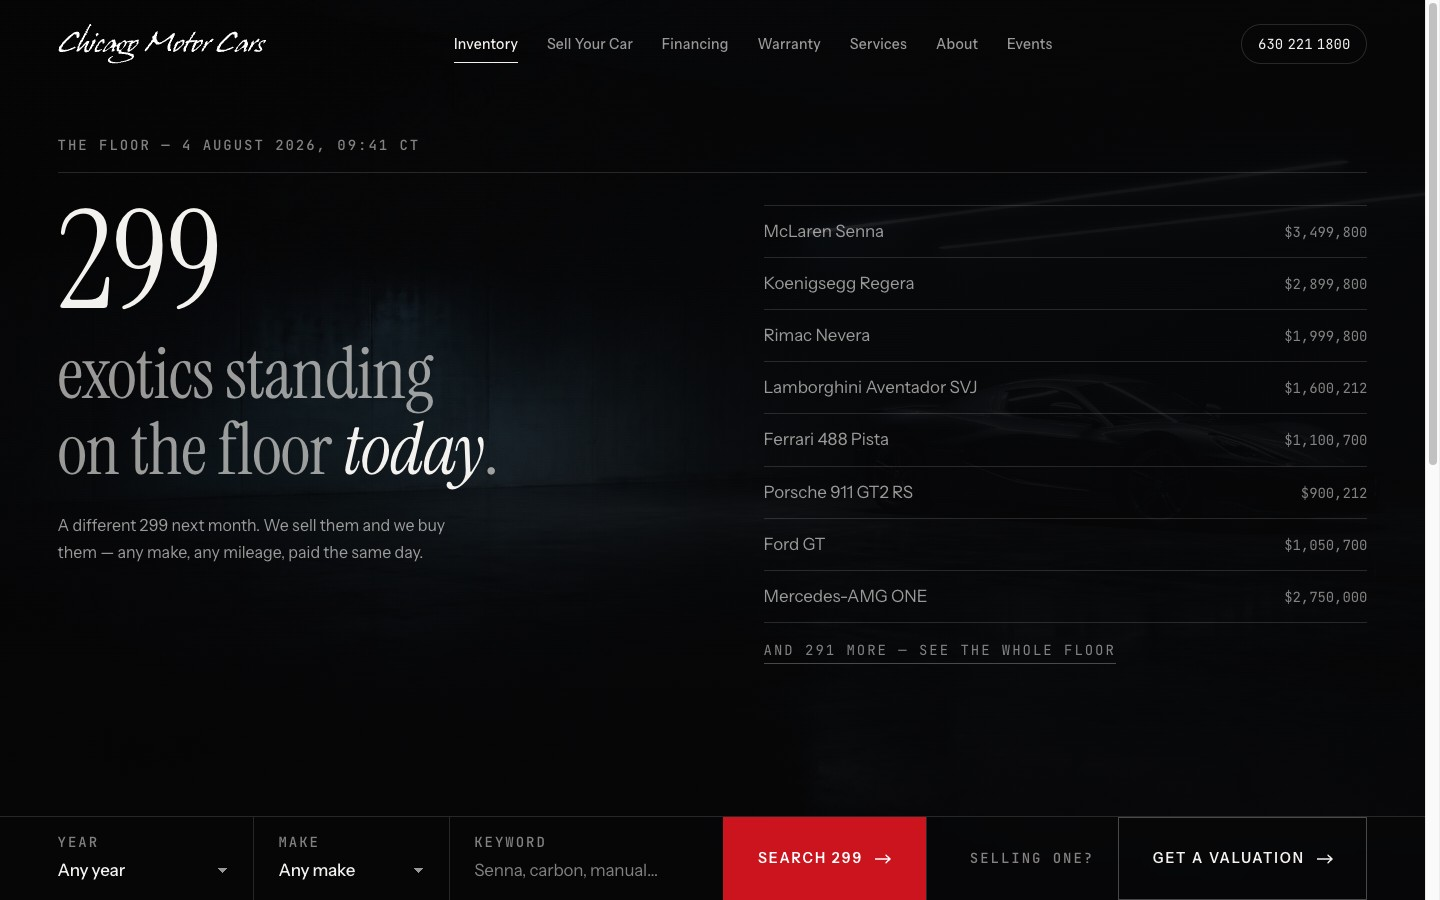
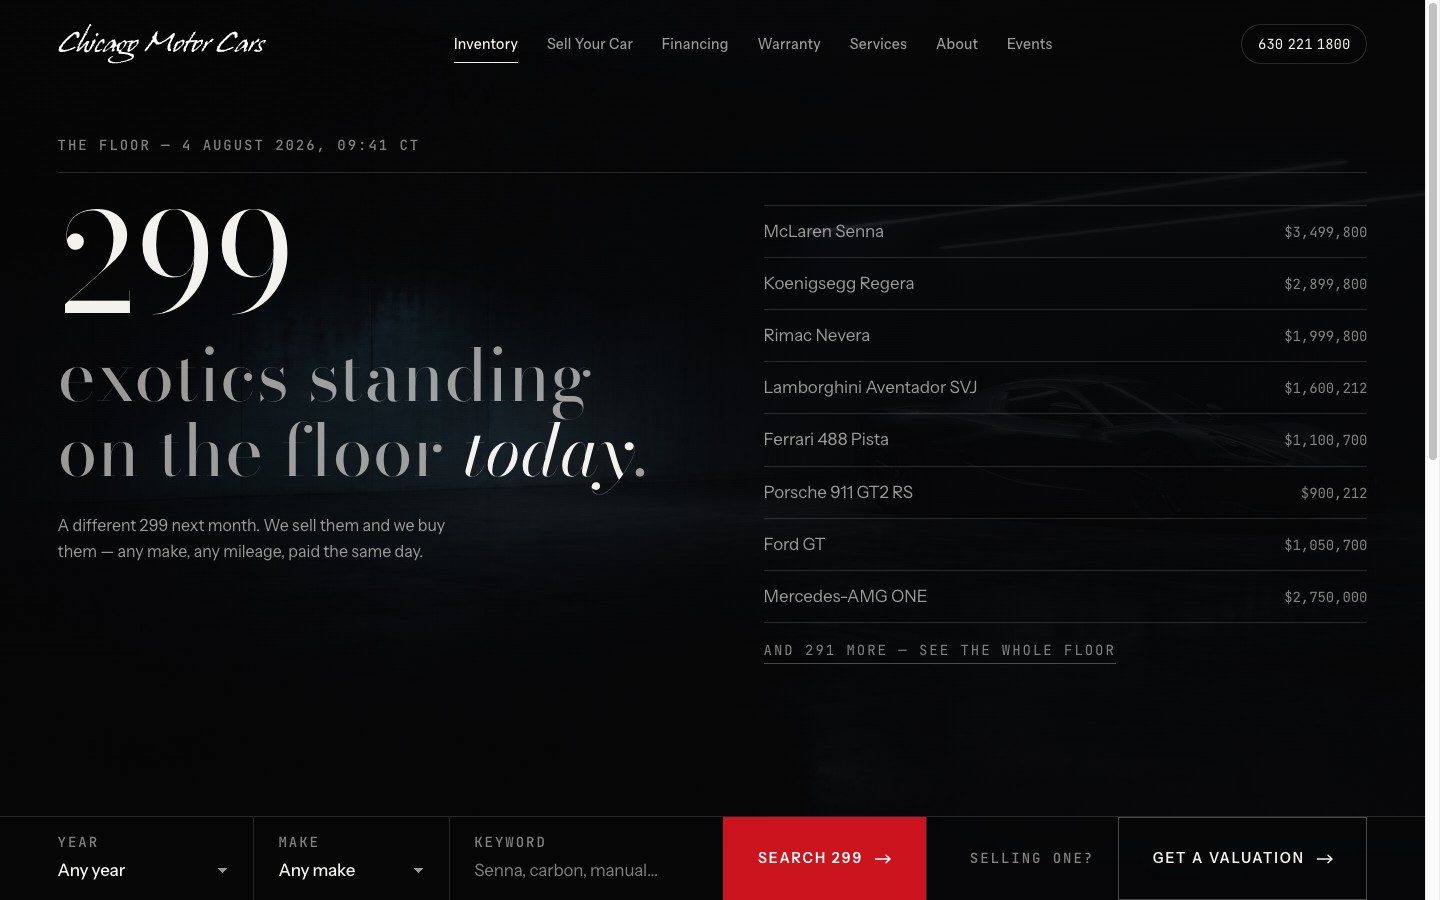
J — the didone, set as a didone wants
Display returns to Bodoni Moda, and the settings are the whole point:

  weight   400        never 500+, which thickens the hairlines
  opsz     96         the display cut, not the text cut
  tracking +0.005em   open, never the -0.03 a grotesque wants

The earlier rejection was my execution, not the family — it was running
at 600 and -0.035, which is how a didone is made to look heavy and
ordinary. Body stays Instrument Sans, data stays JetBrains Mono, which
is the dialect's three-voice system exactly: didone display, quiet
grotesque, machine register.

Verified: mobile clamps the claim to 40px and the count to 72px, both at
or above the ~40px floor where hairlines start falling under a device
pixel. Contrast on the composited render passes at both viewports —
count 17.87, claim 6.31, note 6.32, roster 6.47.

Changed region(s): [[0.0312, 0.3733, 0.4375, 0.5289], [0.0312, 0.2178, 0.2188, 0.3733], [0.0625, 0.5911, 0.2812, 0.6222]]

diff --git a/assets/css/tokens.css b/assets/css/tokens.css
@@ -55,27 +55,31 @@
        body    — leads, UI copy, plate values. Quiet, forgettable.
        mono    — anything factual: labels, stock, miles, VIN, counts.
 
-     Instrument Serif and Instrument Sans are cut by one hand from
-     related skeletons, so the pair has a reason to exist — which
-     Bodoni + Archivo did not: different centuries, different bones,
-     and a script wordmark already in the room.
+     The inventory is catalogue content — lots, provenance, one-of-N,
+     delivery mileage, prices to $3.5M — so the display voice is the
+     printed catalogue's: a didone.
 
-     CONSTRAINT: Instrument Serif ships ONE weight (400) plus a true
-     italic. Every display rank therefore sets 400 — asking for 500
-     or 600 would make the browser synthesise a fake bold. Emphasis
-     comes from size and from the italic, never from weight.        */
-  --font-display: 'Instrument Serif', 'Didot', Georgia, serif;
+     HOW IT IS SET, and this is the whole difference between elegant
+     and ordinary. A didone wants to be LIGHT, OPEN and LARGE:
+        weight  400          never 500+, which thickens the hairlines
+        opsz    96           the display cut, not the text cut
+        tracking +0.005em    open, never the −0.03 a grotesque wants
+     Set at 600 and −0.035 it reads heavy and generic — that was the
+     earlier fault, and the family took the blame for it.
+
+     Emphasis is the true italic. There is no heavier weight in play. */
+  --font-display: 'Bodoni Moda', 'Didot', 'GFS Didot', Georgia, serif;
+  --font-display-set: 'opsz' 96;
   --font-body:    'Instrument Sans', -apple-system, BlinkMacSystemFont, sans-serif;
   --font-mono:    'JetBrains Mono', ui-monospace, SFMono-Regular, Menlo, monospace;
 
   /* Scale — every size resolves here. No magic numbers.
      14px is the floor for anything a visitor must read.         */
-  /* Instrument Serif is high-contrast but not a true didone: its
-     hairlines survive lower than Bodoni's did, so the display floor
-     comes down from ~40px to ~32px. Verified on the specimen, not
-     assumed.                                                        */
+  /* The didone floor is ~40px: below it the hairlines fall under a
+     device pixel and figures start losing crossbars. Both display
+     ranks clamp above it at every width.                            */
   --t-count: clamp(4.5rem, 9.5vw, 9.5rem);   /* the live figure   */
-  --t-claim: clamp(2.375rem, 5vw, 4.75rem);  /* the hero claim    */
+  --t-claim: clamp(2.5rem, 5vw, 4.75rem);    /* the hero claim    */
   --t-h1:    clamp(1.625rem, 3.2vw, 3.25rem);
   --t-lede:  clamp(1rem, 1.1vw, 1.0625rem);
   --t-body:  1rem;                            /* 16px            */
@@ -88,7 +92,8 @@
   --lh-label:   1.4;
 
   --tr-micro: 0.14em;    /* uppercase mono needs the tracking    */
-  --tr-count: -0.02em;   /* Instrument Serif is already tight     */
+  --tr-display: 0.005em; /* a didone wants open, not tight        */
+  --tr-count:   0;       /* figures at display size sit at zero    */
 
   /* ---- Space -------------------------------------------------
      4px base. Every step carries a job, because a scale without

diff --git a/assets/css/main.css b/assets/css/main.css
@@ -331,15 +331,17 @@ button, input, select { font: inherit; color: inherit; }
    explains it drops two ranks and sits under its shoulder. */
 .hero__claim {
   font-family: var(--font-display);
-  font-weight: 400;          /* Instrument Serif has one weight */
-  letter-spacing: -0.015em;
+  font-variation-settings: var(--font-display-set);
+  font-weight: 400;
+  letter-spacing: var(--tr-display);
 }
 
 .hero__claim-a {
   display: block;
   font-size: var(--t-count);
   font-weight: 400;
-  line-height: 0.84;
+  line-height: 0.86;
+  letter-spacing: var(--tr-count);
   font-variant-numeric: tabular-nums;
 }
 
@@ -347,8 +349,8 @@ button, input, select { font: inherit; color: inherit; }
   display: block;
   margin-block-start: var(--sp-4);
   font-size: var(--t-claim);
-  line-height: 1.06;
-  letter-spacing: -0.012em;
+  line-height: 1.04;
+  letter-spacing: var(--tr-display);
   color: var(--ink-2);
 }
 
@@ -553,10 +555,11 @@ select.field__control option { background: var(--bg-raised); color: var(--ink); 
 
 .record__claim {
   font-family: var(--font-display);
-  font-size: clamp(2rem, 4vw, 3.75rem);
+  font-variation-settings: var(--font-display-set);
+  font-size: clamp(2.125rem, 4.2vw, 4rem);
   font-weight: 400;
   line-height: 1.1;
-  letter-spacing: -0.012em;
+  letter-spacing: var(--tr-display);
   max-width: 24ch;
 }
 
@@ -586,10 +589,11 @@ select.field__control option { background: var(--bg-raised); color: var(--ink); 
 
 .ledger dd {
   font-family: var(--font-display);
-  font-size: clamp(2.125rem, 4.2vw, 3.5rem);
+  font-variation-settings: var(--font-display-set);
+  font-size: clamp(2.25rem, 4.4vw, 3.75rem);
   font-weight: 400;
   line-height: 1;
-  letter-spacing: -0.015em;
+  letter-spacing: var(--tr-count);
   font-variant-numeric: tabular-nums;
 }
 

diff --git a/design.html b/design.html
@@ -8,11 +8,11 @@
 
 <link rel="preconnect" href="https://fonts.googleapis.com">
 <link rel="preconnect" href="https://fonts.gstatic.com" crossorigin>
-<link href="https://fonts.googleapis.com/css2?family=Instrument+Sans:ital,wght@0,400..700;1,400..700&family=Instrument+Serif:ital@0;1&family=Bodoni+Moda:ital,opsz,wght@0,6..96,400..700;1,6..96,400..600&family=Cormorant+Garamond:ital,wght@0,300..700;1,300..700&family=Archivo:ital,wdth,wght@0,62..125,100..900;1,62..125,100..900&family=JetBrains+Mono:wght@400;500&display=swap" rel="stylesheet">
+<link href="https://fonts.googleapis.com/css2?family=Bodoni+Moda:ital,opsz,wght@0,6..96,400..500;1,6..96,400..500&family=Instrument+Sans:ital,wght@0,400..700;1,400..700&family=JetBrains+Mono:wght@400;500&display=swap" rel="stylesheet">
 
-<link rel="stylesheet" href="assets/css/tokens.css?v=10">
-<link rel="stylesheet" href="assets/css/main.css?v=11">
-<link rel="stylesheet" href="assets/css/specimen.css?v=5">
+<link rel="stylesheet" href="assets/css/tokens.css?v=12">
+<link rel="stylesheet" href="assets/css/main.css?v=13">
+<link rel="stylesheet" href="assets/css/specimen.css?v=6">
 </head>
 <body>
 

diff --git a/index.html b/index.html
@@ -8,10 +8,10 @@
 
 <link rel="preconnect" href="https://fonts.googleapis.com">
 <link rel="preconnect" href="https://fonts.gstatic.com" crossorigin>
-<link href="https://fonts.googleapis.com/css2?family=Instrument+Sans:ital,wght@0,400..700;1,400..700&family=Instrument+Serif:ital@0;1&family=JetBrains+Mono:wght@400;500&display=swap" rel="stylesheet">
+<link href="https://fonts.googleapis.com/css2?family=Bodoni+Moda:ital,opsz,wght@0,6..96,400..500;1,6..96,400..500&family=Instrument+Sans:ital,wght@0,400..700;1,400..700&family=JetBrains+Mono:wght@400;500&display=swap" rel="stylesheet">
 
-<link rel="stylesheet" href="assets/css/tokens.css?v=10">
-<link rel="stylesheet" href="assets/css/main.css?v=12">
+<link rel="stylesheet" href="assets/css/tokens.css?v=12">
+<link rel="stylesheet" href="assets/css/main.css?v=13">
 </head>
 <body>
 

diff --git a/assets/css/specimen.css b/assets/css/specimen.css
@@ -21,10 +21,11 @@
 
 .sheet__title {
   font-family: var(--font-display);
+  font-variation-settings: var(--font-display-set);
   font-size: clamp(2.75rem, 6.5vw, 5.5rem);
-  font-weight: 400;          /* Instrument Serif has one weight */
-  line-height: 0.92;
-  letter-spacing: -0.015em;
+  font-weight: 400;
+  line-height: 0.94;
+  letter-spacing: var(--tr-display);
 }
 
 .sheet__stamp { color: var(--ink-3); text-align: right; }
@@ -48,10 +49,11 @@
 
 .chap__title {
   font-family: var(--font-display);
-  font-size: clamp(1.625rem, 2.9vw, 2.5rem);
+  font-variation-settings: var(--font-display-set);
+  font-size: clamp(1.75rem, 3.1vw, 2.625rem);
   font-weight: 400;
-  line-height: 1.05;
-  letter-spacing: -0.01em;
+  line-height: 1.06;
+  letter-spacing: var(--tr-display);
   margin-block-end: var(--sp-5);
 }
 
